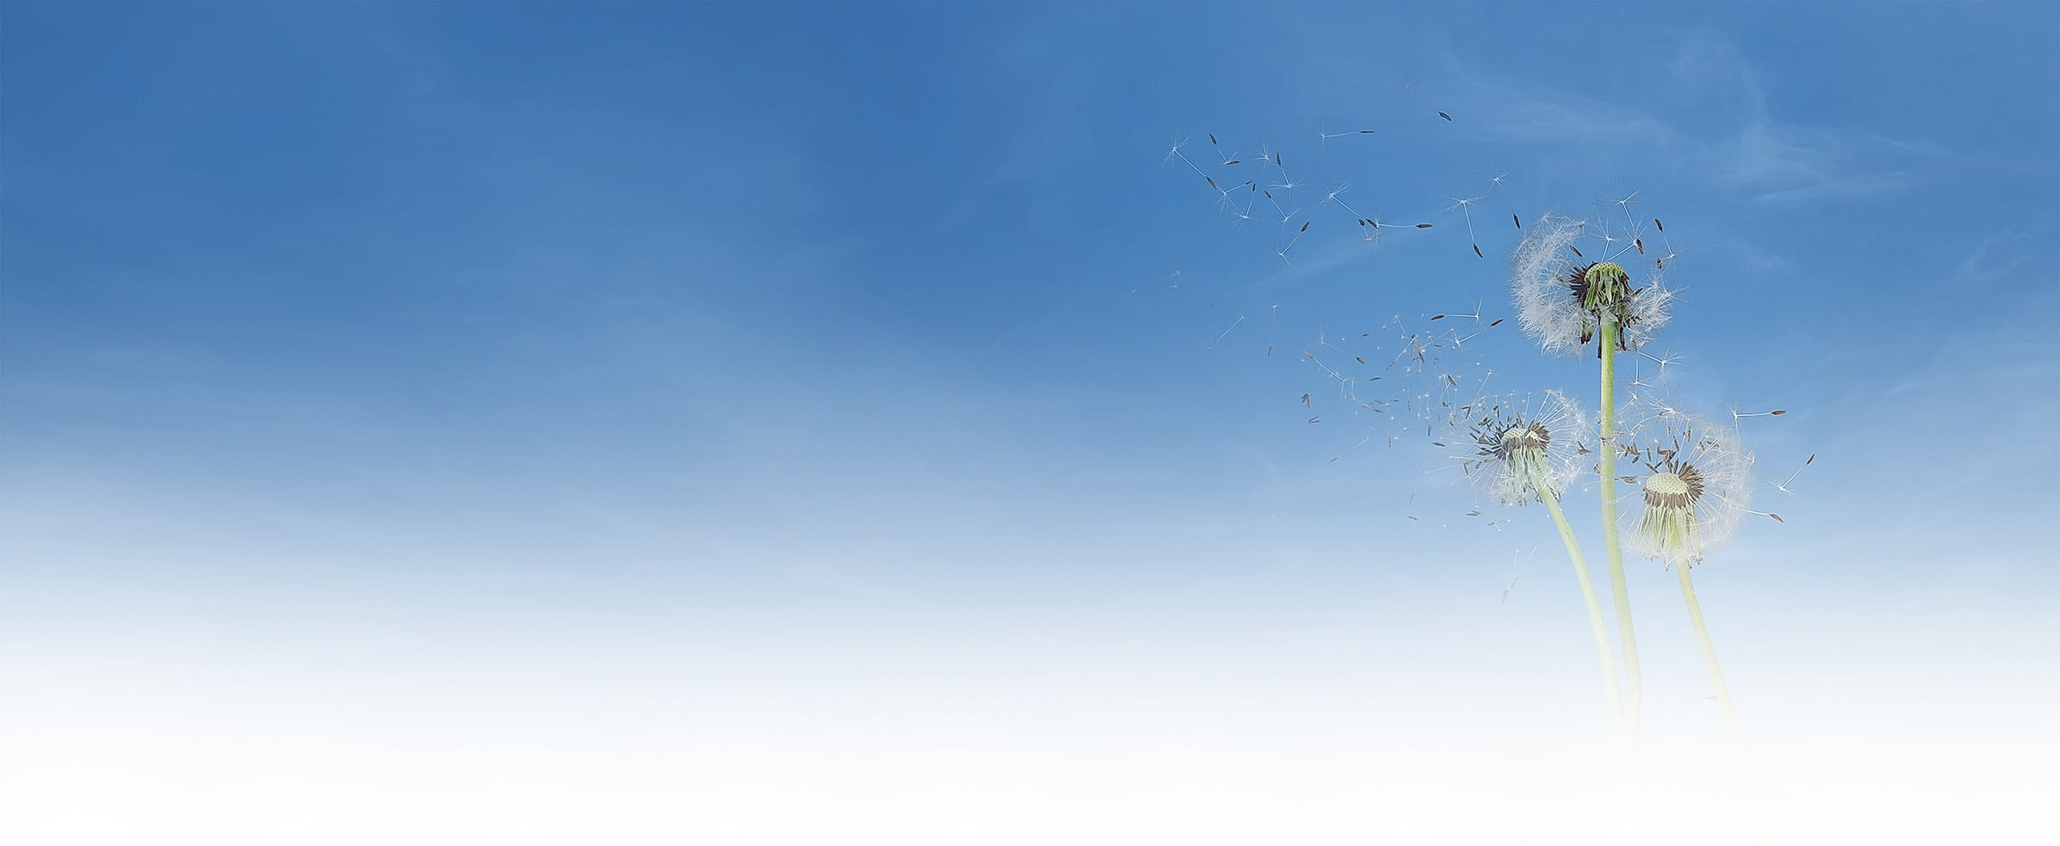
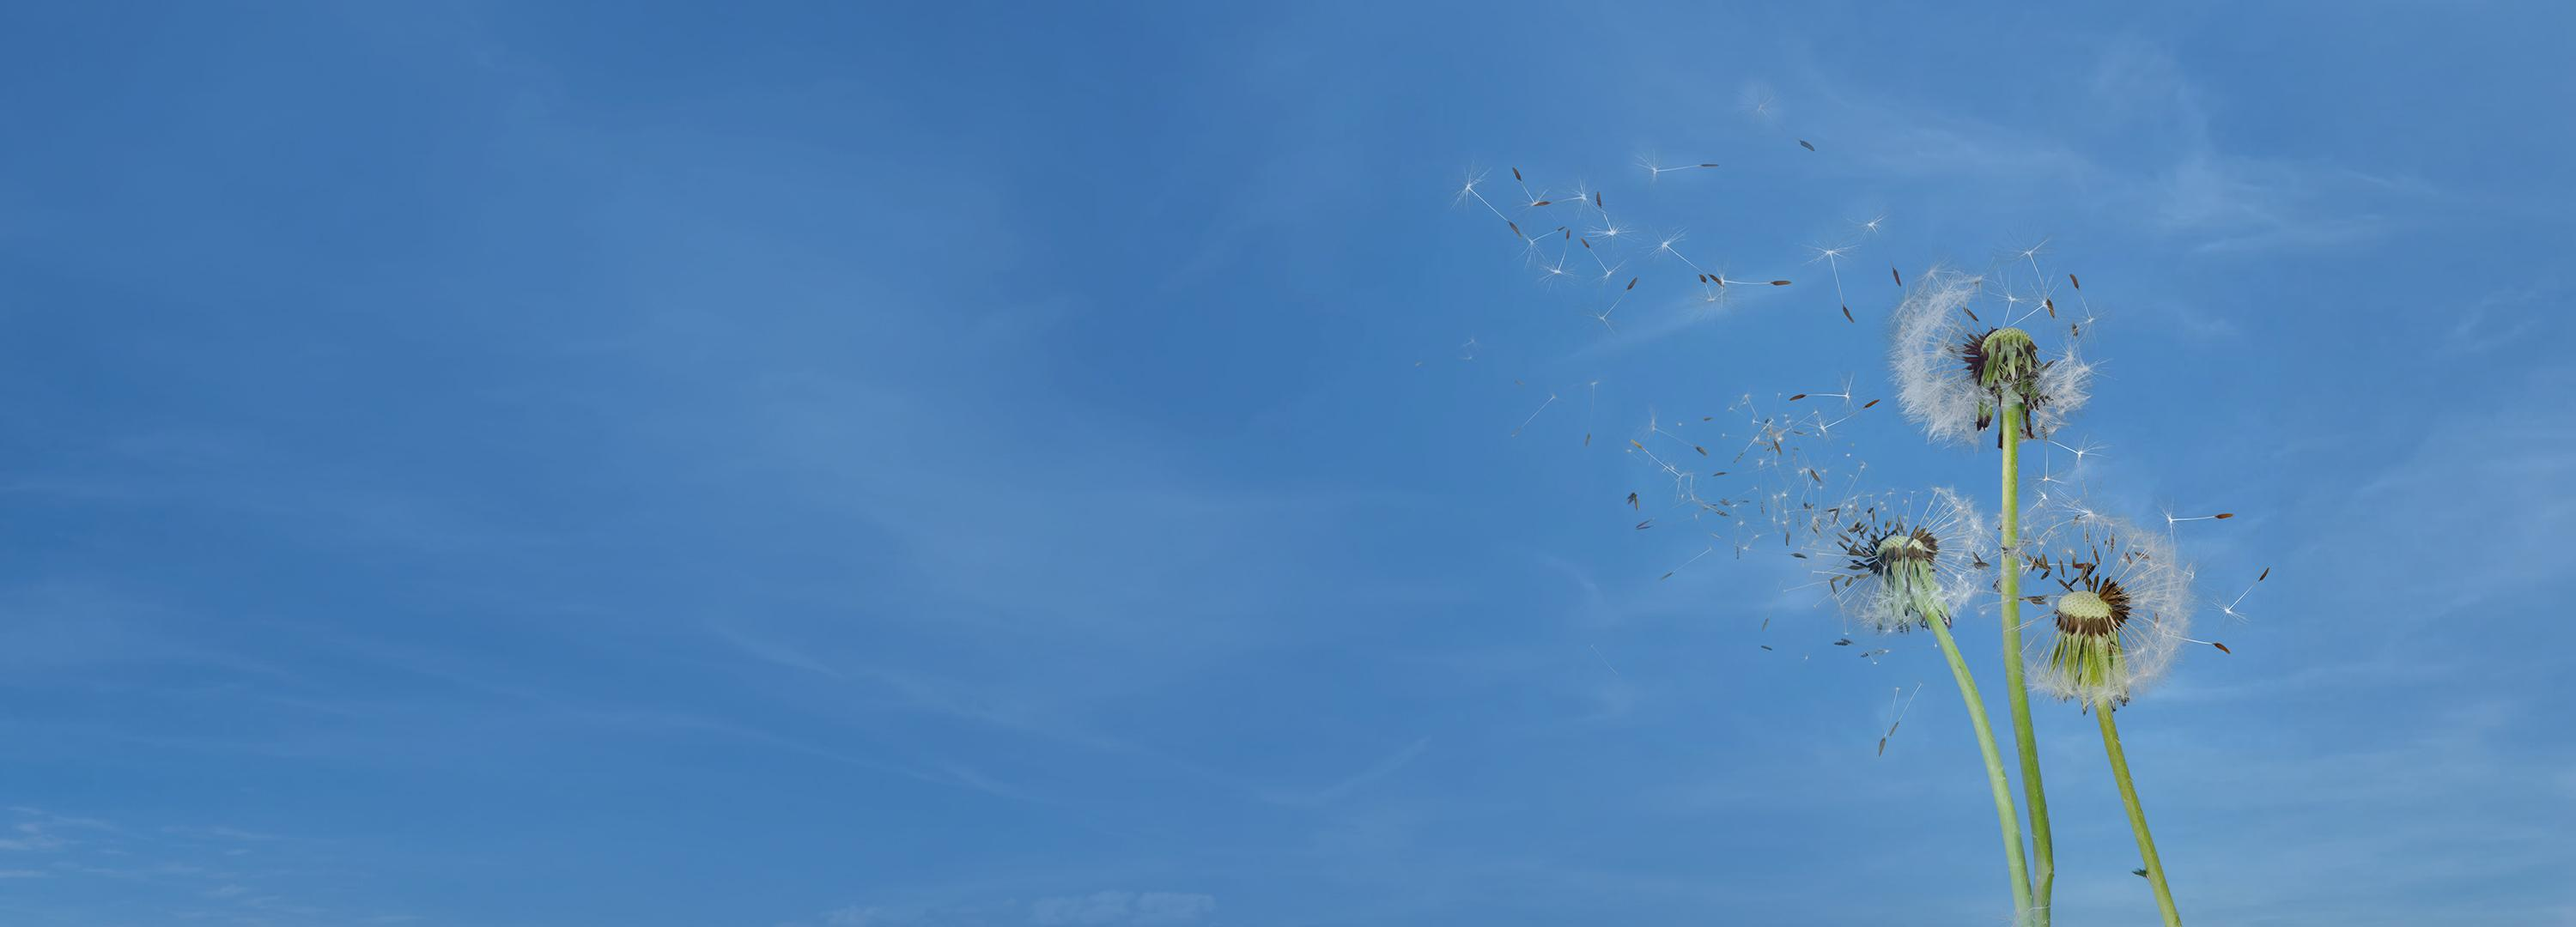
fix glitch

diff --git a/components/ui/PortfolioHero.tsx b/components/ui/PortfolioHero.tsx
@@ -54,15 +54,13 @@ const categoryContentMap: Record<string, CategoryContent> = {
       'Orders of service, memorial cards, and keepsake books — handled with warmth, care, and unhurried attention to detail.',
     bgGradient:
       'linear-gradient(135deg, #FFFFFF 0%, #c5a34e 30%, #F3E7C9 60%, #FFFFFF 100%)',
-    // The photo (Portfolio-funeral-Image.jpg) fades to white near its own
-    // bottom edge, but only on narrower crops — on a wide desktop viewport,
-    // object-cover crops more off the top/bottom to fill the width, cutting
-    // off that fade and leaving solid sky-blue to hard-cut straight into
-    // the section's background. An explicit overlay (matching every other
-    // category below) blends it into that same background (white, for this
-    // category) regardless of how the photo gets cropped.
-    overlayGradient:
-      'linear-gradient(to bottom, transparent 0%, transparent 55%, rgba(255,255,255,0.65) 80%, #FFFFFF 100%)',
+    // No fade overlay, by request — the photo (Portfolio-funeral-Image.jpg)
+    // crops straight into the section background with a hard edge. Note:
+    // on a wide desktop viewport, object-cover crops more off the top/bottom
+    // to fill the width, which cuts off this photo's own built-in fade
+    // toward white near its bottom edge — the hard edge will show solid
+    // sky-blue meeting the background there, not a blend.
+    overlayGradient: 'none',
   },
   wedding: {
     eyebrow: '',
@@ -72,8 +70,9 @@ const categoryContentMap: Record<string, CategoryContent> = {
       'Invitation suites, orders of service, table plans, and bespoke signage — each piece crafted to mirror the joy of the day.',
     bgGradient:
       'linear-gradient(135deg, #FDF7F5 0%, #F5E6DF 30%, #E8D5C4 60%, #FDF7F5 100%)',
-    overlayGradient:
-      'linear-gradient(to bottom, transparent 0%, transparent 80%, rgba(253,247,245,0.4) 92%, #FDF7F5 100%)',
+    // No fade overlay, by request — the illustration crops straight into
+    // the section background with a hard edge.
+    overlayGradient: 'none',
   },
   events: {
     eyebrow: 'Events Portfolio',
